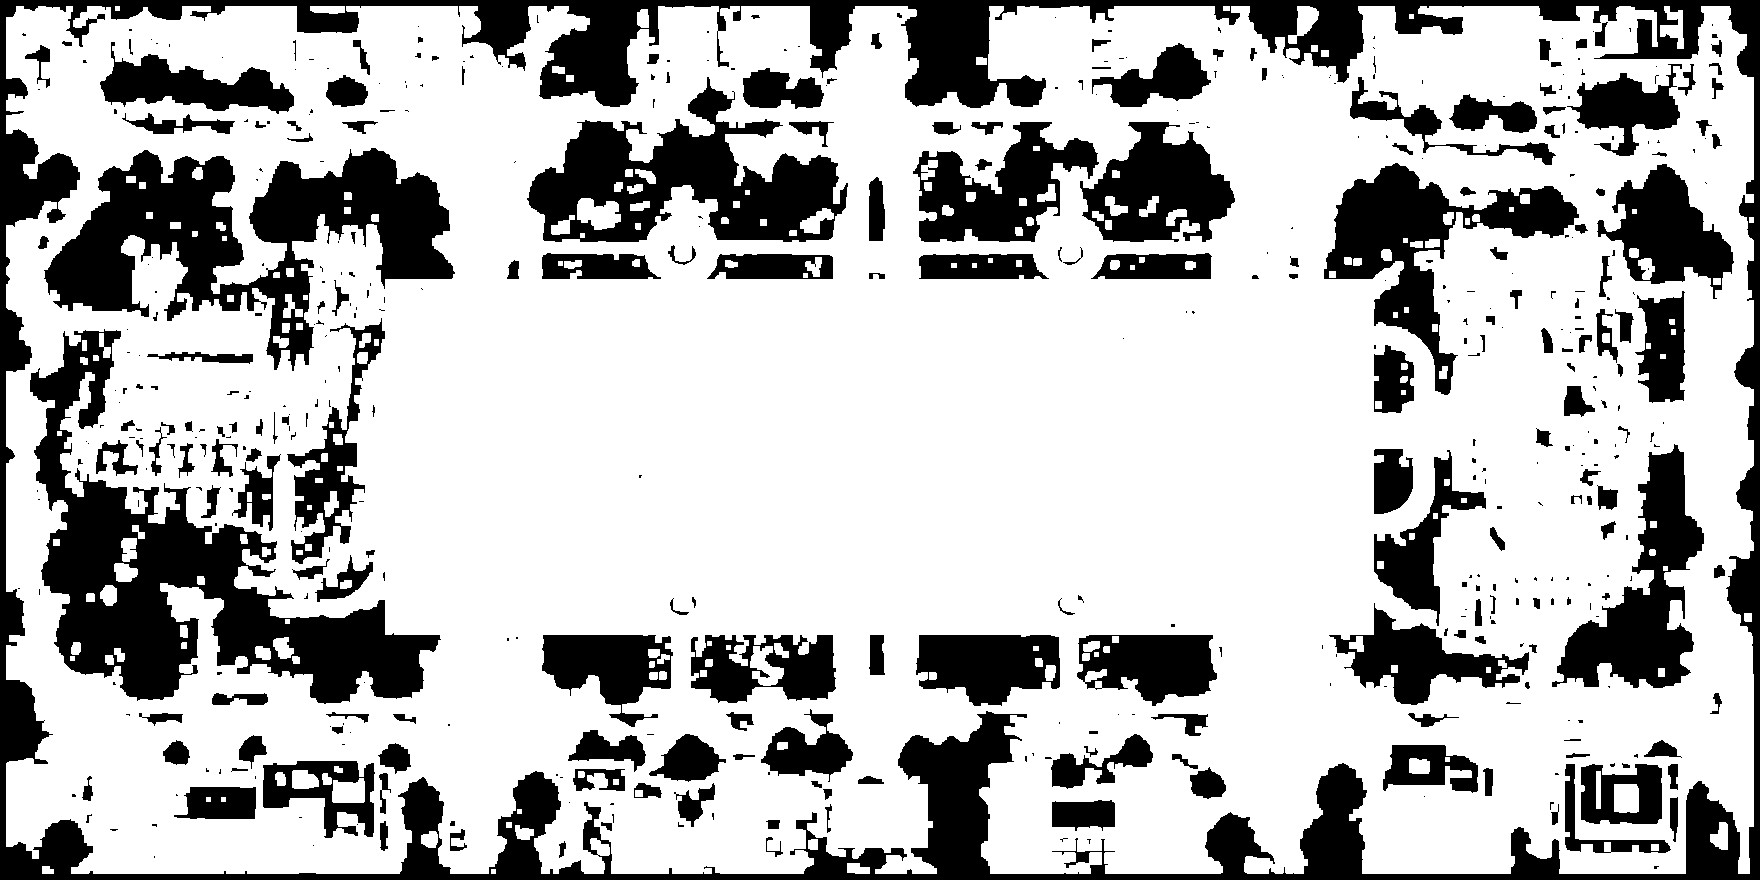
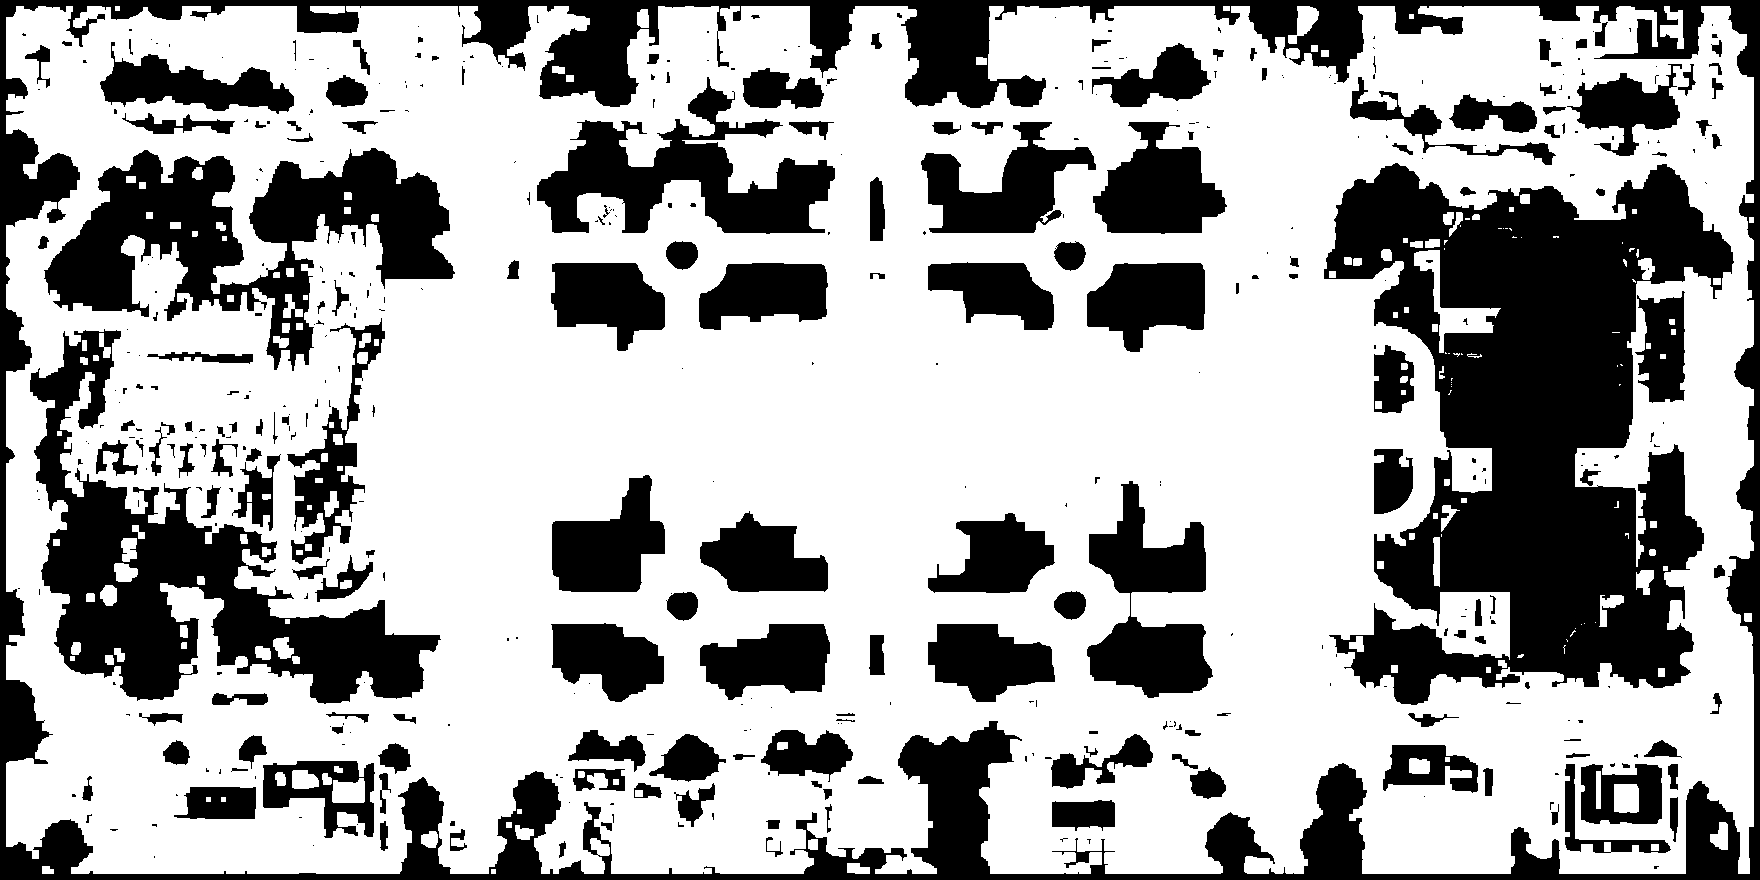
Keep Plaza Moreno on the paths, off the city hall, and out through the center.

diff --git a/js/data.js b/js/data.js
@@ -316,7 +316,7 @@ const MAPS = {
         ty: 6,
         to: "moreno",
         label: "Plaza Moreno",
-        spawnThere: { tx: 55, ty: 30 },
+        spawnThere: { tx: 54, ty: 29 },
         spawnBack: { tx: 20, ty: 8 },
       },
       {
@@ -324,7 +324,7 @@ const MAPS = {
         ty: 6,
         to: "moreno",
         label: "",
-        spawnThere: { tx: 55, ty: 30 },
+        spawnThere: { tx: 54, ty: 29 },
         spawnBack: { tx: 20, ty: 8 },
       },
       {
@@ -332,7 +332,7 @@ const MAPS = {
         ty: 6,
         to: "moreno",
         label: "",
-        spawnThere: { tx: 55, ty: 30 },
+        spawnThere: { tx: 54, ty: 29 },
         spawnBack: { tx: 20, ty: 8 },
       },
       {
@@ -340,7 +340,7 @@ const MAPS = {
         ty: 7,
         to: "moreno",
         label: "",
-        spawnThere: { tx: 55, ty: 30 },
+        spawnThere: { tx: 54, ty: 29 },
         spawnBack: { tx: 20, ty: 8 },
       },
       {
@@ -348,7 +348,7 @@ const MAPS = {
         ty: 7,
         to: "moreno",
         label: "",
-        spawnThere: { tx: 55, ty: 30 },
+        spawnThere: { tx: 54, ty: 29 },
         spawnBack: { tx: 20, ty: 8 },
       },
       {
@@ -356,7 +356,7 @@ const MAPS = {
         ty: 7,
         to: "moreno",
         label: "",
-        spawnThere: { tx: 55, ty: 30 },
+        spawnThere: { tx: 54, ty: 29 },
         spawnBack: { tx: 20, ty: 8 },
       },
     ],
@@ -704,27 +704,19 @@ const MAPS = {
       "#............................................................................................................#",
       "#............................................................................................................#",
       "#............................................................................................................#",
-      "#...................................................dddddd...................................................#",
-      "#...................................................dddddd...................................................#",
+      "#............................................................................................................#",
+      "#............................................................................................................#",
       "#............................................................................................................#",
       "##############################################################################################################",
     ]),
     floor: ["#c4b49a", "#b8a88e"],
     wall: "#3a342c",
-    spawn: { tx: 55, ty: 30 },
+    spawn: { tx: 54, ty: 29 },
     exits: [
-      { tx: 52, ty: 51 },
-      { tx: 53, ty: 51 },
-      { tx: 54, ty: 51 },
-      { tx: 55, ty: 51 },
-      { tx: 56, ty: 51 },
-      { tx: 57, ty: 51 },
-      { tx: 52, ty: 52 },
-      { tx: 53, ty: 52 },
-      { tx: 54, ty: 52 },
-      { tx: 55, ty: 52 },
-      { tx: 56, ty: 52 },
-      { tx: 57, ty: 52 },
+      { tx: 54, ty: 26 },
+      { tx: 55, ty: 26 },
+      { tx: 54, ty: 27 },
+      { tx: 55, ty: 27 },
     ],
     coin: null,
     npcs: [],

diff --git a/js/game.js b/js/game.js
@@ -117,7 +117,7 @@ TITLE_ART.src = "assets/brand/title.jpg?v=51";
 const TITLE_PLAY = { x: 80, y: 160, w: 96, h: 36 };
 
 const PASILLO_ART = new Image();
-PASILLO_ART.src = "assets/places/pasillo/backstage.jpg?v=70";
+PASILLO_ART.src = "assets/places/pasillo/backstage.jpg?v=71";
 
 const FRAWENS_ART = new Image();
 FRAWENS_ART.src = "assets/places/frawens/salon.png?v=74";
@@ -192,7 +192,7 @@ const MORENO_ART = new Image();
 MORENO_ART.src = "assets/places/moreno/plaza.png?v=67";
 
 const MORENO_COLLISION = new Image();
-MORENO_COLLISION.src = "assets/places/moreno/collision-game.png?v=67";
+MORENO_COLLISION.src = "assets/places/moreno/collision-game.png?v=72";
 /** @type {Uint8ClampedArray | null} */
 let morenoCollisionPixels = null;
 MORENO_COLLISION.addEventListener("load", () => {
@@ -1064,9 +1064,51 @@ function drawTilosLights(map) {
   ctx.restore();
 }
 
+function morenoExitPoint() {
+  const exits = MAPS.moreno.exits;
+  let x = 0;
+  let y = 0;
+  for (const exit of exits) {
+    const point = tileCenter(exit);
+    x += point.x;
+    y += point.y;
+  }
+  return { x: x / exits.length, y: y / exits.length };
+}
+
+function nearMorenoExit() {
+  if (state.map.id !== "moreno" || state.dialogue || !state.map.exits.length) {
+    return false;
+  }
+  const point = morenoExitPoint();
+  return Math.hypot(player.x - point.x, player.y - point.y) < 72;
+}
+
+function drawSecretExit() {
+  const point = morenoExitPoint();
+  const x = point.x;
+  const y = point.y;
+  ctx.fillStyle = "#1a120e";
+  ctx.fillRect(x - 11, y - 11, 22, 22);
+  ctx.fillStyle = "#e6c36a";
+  ctx.fillRect(x - 8, y - 8, 16, 16);
+  ctx.fillStyle = "#1a120e";
+  ctx.fillRect(x - 5, y - 4, 10, 8);
+  ctx.fillStyle = "#e6c36a";
+  ctx.fillRect(x - 3, y - 2, 6, 4);
+  ctx.fillStyle = "#1a120e";
+  ctx.fillRect(x - 6, y + 5, 12, 2);
+}
+
 function drawDoors(map) {
-  if (map.id === "pasillo" || map.id === "frawens" || map.id === "universal" || map.id === "moreno") {
-    if (map.id === "frawens" || map.id === "universal" || map.id === "moreno") {
+  if (map.id === "moreno") {
+    if (map.exits.length) {
+      drawSecretExit();
+    }
+    return;
+  }
+  if (map.id === "pasillo" || map.id === "frawens" || map.id === "universal") {
+    if (map.id === "frawens" || map.id === "universal") {
       for (const exit of map.exits) {
         ctx.fillStyle = "rgba(230, 195, 106, 0.55)";
         ctx.fillRect(exit.tx * TILE + 3, exit.ty * TILE + 3, 10, 10);
@@ -1323,7 +1365,15 @@ function drawHud() {
   ctx.fillStyle = "#f3e6c8";
   ctx.fillText(state.map.name, 6, 12);
   ctx.fillText(`${coinCount()}/3`, 210, 12);
-  if (!state.dialogue && (nearbyNpc() || atCounter())) {
+  if (nearMorenoExit()) {
+    ctx.fillStyle = "rgba(16, 12, 10, 0.88)";
+    ctx.fillRect(36, 22, 184, 28);
+    ctx.textAlign = "center";
+    ctx.fillStyle = "#f3e6c8";
+    ctx.fillText("Salir por los", VIEW_W / 2, 34);
+    ctx.fillText("túneles secretos", VIEW_W / 2, 46);
+    ctx.textAlign = "left";
+  } else if (!state.dialogue && (nearbyNpc() || atCounter())) {
     ctx.fillText("Hablar", 96, 28);
   }
 }

diff --git a/index.html b/index.html
@@ -26,7 +26,7 @@
       </div>
     </div>
     <script src="js/config.js?v=72"></script>
-    <script src="js/data.js?v=81"></script>
-    <script src="js/game.js?v=99"></script>
+    <script src="js/data.js?v=82"></script>
+    <script src="js/game.js?v=112"></script>
   </body>
 </html>
